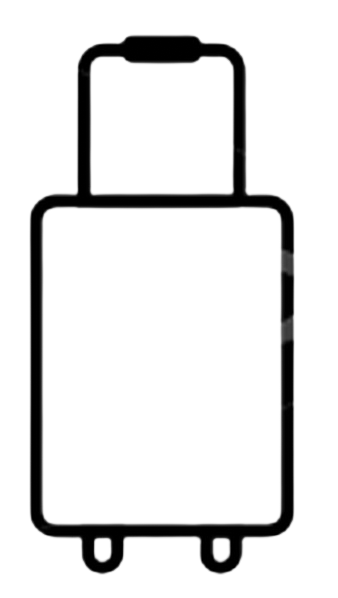
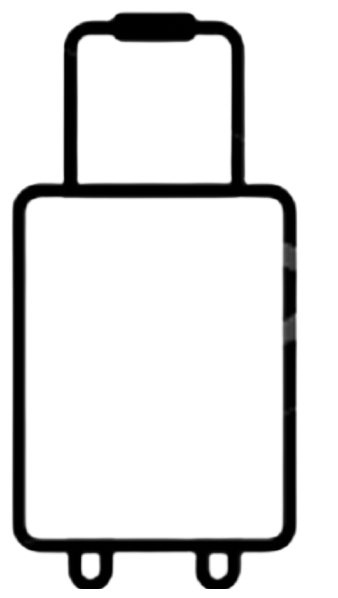
feat: 물건 방향 찾기

Changed region(s): [[0.0296, 0.0, 0.8876, 0.9933]]

diff --git a/hospital/src/utils/carrierRotation/carrierRotateGameConfig.ts b/hospital/src/utils/carrierRotation/carrierRotateGameConfig.ts
@@ -4,6 +4,24 @@ const enum ANGLE {
   ANGLE_270 = 3,
 }
 
+const carrier: RotateCarrierSpacePoint = {
+  x: 0,
+  y: 0,
+  w: 300,
+  h: 500,
+};
+
+const space: RotateCarrierSpacePoint[] = [
+  // 1 X 2
+  { x: -130, y: -120, w: 200, h: 130 },
+  { x: -130, y: 10, w: 200, h: 130 },
+  // 2 x 2
+  { x: -130, y: -120, w: 100, h: 130 },
+  { x: -130, y: 10, w: 100, h: 130 },
+  { x: -30, y: -120, w: 100, h: 130 },
+  { x: -30, y: 10, w: 100, h: 130 },
+];
+
 export interface RotateCarrierItemAssets {
   imageKey: string;
   point: RotateCarrierSpacePoint;
@@ -38,16 +56,11 @@ export const RotateCarrierGameLevels: RotateCarrierLevelConfig[] = [
     obstacle: 0,
     findDirection: false,
     answerDirection: 0,
-    space: [
-      { x: -120, y: -150, w: 190, h: 95 },
-      { x: -120, y: -55, w: 190, h: 95 },
-    ],
+    space: [space[0], space[1]],
     rotation: 1,
     rotationAngle: [ANGLE.ANGLE_90],
-    carrier: { imageKey: "carrier", point: { x: 0, y: 0, w: 300, h: 400 } },
-    questions: [
-      { imageKey: "item1_0", point: { x: -120, y: -150, w: 190, h: 95 } },
-    ],
+    carrier: { imageKey: "carrier", point: carrier },
+    questions: [{ imageKey: "item1_0", point: space[0] }],
     obstacles: [],
     examples: [],
   },
@@ -57,22 +70,48 @@ export const RotateCarrierGameLevels: RotateCarrierLevelConfig[] = [
     obstacle: 1,
     findDirection: false,
     answerDirection: 1,
-    space: [
-      { x: -120, y: -150, w: 190, h: 95 },
-      { x: -120, y: -55, w: 190, h: 95 },
-    ],
+    space: [space[0], space[1]],
     rotation: 1,
     rotationAngle: [ANGLE.ANGLE_90],
-    carrier: { imageKey: "carrier", point: { x: 0, y: 0, w: 300, h: 400 } },
+    carrier: { imageKey: "carrier", point: carrier },
+    questions: [{ imageKey: "item5_0", point: space[1] }],
+    obstacles: [{ imageKey: "item1_0", point: space[0] }],
+    examples: [],
+  },
+  {
+    level: 2,
+    findItems: 1,
+    obstacle: 0,
+    findDirection: true,
+    answerDirection: 0,
+    space: [space[2], space[3], space[4], space[5]],
+    rotation: 2,
+    rotationAngle: [ANGLE.ANGLE_90, ANGLE.ANGLE_90],
+    carrier: { imageKey: "carrier", point: carrier },
     questions: [
-      { imageKey: "item5_0", point: { x: -120, y: -55, w: 190, h: 95 } },
-    ],
-    obstacles: [
       {
         imageKey: "item1_0",
-        point: { x: -120, y: -150, w: 190, h: 95 },
+        point: { ...space[2], y: space[2].y + 10, h: 100 },
       },
     ],
-    examples: [],
+    obstacles: [],
+    examples: [
+      {
+        imageKey: "item1_0",
+        point: { ...space[2], y: space[2].y + 10, h: 100 },
+      },
+      {
+        imageKey: "item1_90",
+        point: { ...space[3], y: space[3].y + 10, h: 100 },
+      },
+      {
+        imageKey: "item1_180",
+        point: { ...space[4], y: space[4].y + 10, h: 100 },
+      },
+      {
+        imageKey: "item1_270",
+        point: { ...space[5], y: space[5].y + 10, h: 100 },
+      },
+    ],
   },
 ];

diff --git a/hospital/src/pages/rotate-carrier/[level].tsx b/hospital/src/pages/rotate-carrier/[level].tsx
@@ -5,35 +5,51 @@ import { RotateCarrierGameLevels } from "@/utils/carrierRotation/carrierRotateGa
 import {
   RotateCarrierConfigState,
   RotateCarrierGameState,
+  SubjectTextState,
 } from "@/atoms/rotateCarrier/config";
-import { useRecoilState, useResetRecoilState } from "recoil";
+import { useRecoilState, useRecoilValue, useResetRecoilState } from "recoil";
 import shuffleArray from "@/utils/arrayShuffle";
 import CustomButton from "@/utils/CustomButton";
+import FindItemDirection from "../../components/rotateCarrier/FindItemDirection";
 
 export default function GamePage() {
   const router = useRouter();
   const level = Number(router.query.level);
+  const subject = useRecoilValue(SubjectTextState);
   const [config, setConfig] = useRecoilState(RotateCarrierConfigState);
   const [gameState, setGameState] = useRecoilState(RotateCarrierGameState);
   const resetGameState = useResetRecoilState(RotateCarrierGameState);
   const [nextBtn, setNextBtn] = useState(false);
+  const [findDirection, setFindDirection] = useState(false);
 
   useEffect(() => {
     const levelConfig = RotateCarrierGameLevels[level];
     const shuffleAngle = shuffleArray(levelConfig.rotationAngle);
     setConfig({ ...levelConfig, rotationAngle: shuffleAngle });
-    console.log(levelConfig);
   }, [level]);
+
+  useEffect(() => {
+    if (gameState.directionScore === config.findItems) {
+      setNextBtn(true);
+    }
+  }, [gameState.directionScore]);
 
   // 게임 클리어
   useEffect(() => {
-    if (gameState.score === config.findItems && level < 9) setNextBtn(true);
+    if (gameState.score === config.findItems && level < 9) {
+      if (config.findDirection && !gameState.directionScore) {
+        setFindDirection(true);
+        return;
+      }
+      setNextBtn(true);
+    }
   }, [gameState.score, router, level]);
 
   const handleNextLevel = useCallback(() => {
     resetGameState(); // 상태 리셋
     if (level < 9) router.push(`/rotate-carrier/${level + 1}`); // 다음 레벨로 이동
     setNextBtn(false);
+    setFindDirection(false);
   }, [nextBtn, level]);
 
   function handleStart() {
@@ -42,7 +58,9 @@ export default function GamePage() {
 
   return (
     <div className="flex flex-col items-center justify-center min-h-screen bg-gray-100">
-      <Canvas key={level} />
+      <h3>{subject}</h3>
+      {!findDirection && <Canvas key={level} />}
+      {findDirection && config.findDirection && <FindItemDirection />}
       <div className="flex justify-center space-x-4 mt-4">
         <CustomButton
           text="게임 시작"

diff --git a/hospital/src/hooks/rotateCarrier/useAnimation.tsx b/hospital/src/hooks/rotateCarrier/useAnimation.tsx
@@ -1,6 +1,9 @@
 import { RefObject, useEffect } from "react";
-import { useRecoilState } from "recoil";
-import { RotateCarrierGameState } from "@/atoms/rotateCarrier/config";
+import { useRecoilState, useSetRecoilState } from "recoil";
+import {
+  RotateCarrierGameState,
+  SubjectTextState,
+} from "@/atoms/rotateCarrier/config";
 import { RotateCarrierLevelConfig } from "@/utils/carrierRotation/carrierRotateGameConfig";
 import {
   drawRect,
@@ -14,7 +17,6 @@ interface params {
   images: RefObject<{ [key: string]: HTMLImageElement }>;
   config: RotateCarrierLevelConfig;
   clickedRectIndex: number;
-  setSubject: React.Dispatch<React.SetStateAction<string>>;
 }
 
 export const useAnimation = ({
@@ -23,9 +25,9 @@ export const useAnimation = ({
   images,
   config,
   clickedRectIndex,
-  setSubject,
 }: params) => {
   const [gameState, setGameState] = useRecoilState(RotateCarrierGameState);
+  const setSubject = useSetRecoilState(SubjectTextState);
 
   const draw = (angle: number) => {
     context.clearRect(0, 0, context.canvas.width, context.canvas.height);
@@ -68,20 +70,31 @@ export const useAnimation = ({
       rotateCount++;
       rotateDirection = getRandomRotateDirection();
       const rotateAngle = config.rotationAngle[rotateCount];
+      if (!rotateAngle) return;
       rotateDirection === "right"
         ? (endAngle += rotateAngle)
         : (endAngle -= rotateAngle);
+
+      setGameState((prev) => {
+        return {
+          ...prev,
+          lastDirection:
+            rotateDirection === "right" && rotateAngle
+              ? prev.lastDirection + rotateAngle
+              : prev.lastDirection - rotateAngle,
+        };
+      });
     };
 
     initRotateInfo();
     const animateStep = () => {
       switch (rotateDirection) {
         case "right":
-          if (degree > endAngle) initRotateInfo();
+          if (degree >= endAngle) initRotateInfo();
           degree += 0.015;
           break;
         case "left":
-          if (degree < endAngle) initRotateInfo();
+          if (degree <= endAngle) initRotateInfo();
           degree -= 0.015;
           break;
       }

diff --git a/hospital/src/components/rotateCarrier/FindItemDirection.tsx b/hospital/src/components/rotateCarrier/FindItemDirection.tsx
@@ -1,0 +1,63 @@
+import {
+  RotateCarrierConfigState,
+  RotateCarrierGameState,
+  SubjectTextState,
+} from "@/atoms/rotateCarrier/config";
+import React, { useEffect, useState } from "react";
+import { useRecoilState, useSetRecoilState } from "recoil";
+import { DrawFindItem } from "./DrawFindItem";
+import { get } from "http";
+
+export default function FindItemDirection() {
+  const [config, setConfig] = useRecoilState(RotateCarrierConfigState);
+  const [gameState, setGameState] = useRecoilState(RotateCarrierGameState);
+  const setSubject = useSetRecoilState(SubjectTextState);
+  const [answerDirection, setAnswerDirection] = useState(0);
+  const path = "/assets/rotateCarrier";
+
+  useEffect(() => {
+    setSubject("물건 모양은 어떻게 되어 있을까요?");
+    const answerDirection = gameState.lastDirection % 4;
+    switch (answerDirection) {
+      case 0:
+      case -4:
+        setAnswerDirection(0);
+        break;
+      case 2:
+      case -2:
+        setAnswerDirection(2);
+        break;
+      case 1:
+      case -3:
+        setAnswerDirection(1);
+        break;
+      case 3:
+      case -1:
+        setAnswerDirection(3);
+        break;
+    }
+  }, []);
+
+  const handleAnswer = (index: number) => {
+    if (index === answerDirection) {
+      setGameState((prev) => {
+        return { ...gameState, directionScore: prev.directionScore + 1 };
+      });
+    }
+  };
+
+  return (
+    <div className="grid grid-cols-2 grid-rows-2 gap-10 p-20">
+      {config.examples.map((item, index) => {
+        return (
+          <DrawFindItem
+            image={`${path}/${item.imageKey}.png`}
+            index={index}
+            key={index}
+            handleAnswer={handleAnswer}
+          />
+        );
+      })}
+    </div>
+  );
+}

diff --git a/hospital/src/components/rotateCarrier/Canvas.tsx b/hospital/src/components/rotateCarrier/Canvas.tsx
@@ -7,7 +7,6 @@ import { useAnimation } from "@/hooks/rotateCarrier/useAnimation";
 
 export default function Canvas() {
   const canvasRef = useRef<HTMLCanvasElement>(null);
-  const [subject, setSubject] = useState<string>("");
   const images = useRef<{ [key: string]: HTMLImageElement }>({});
   const config = useRecoilValue(RotateCarrierConfigState);
   const { clickedRectIndex } = useMouseEvent(canvasRef, config);
@@ -18,7 +17,6 @@ export default function Canvas() {
     images,
     config,
     clickedRectIndex,
-    setSubject,
   });
 
   useEffect(() => {
@@ -30,7 +28,6 @@ export default function Canvas() {
 
   return (
     <div>
-      <h3>{subject}</h3>
       <canvas width={700} height={700} ref={canvasRef} />
     </div>
   );

diff --git a/hospital/src/components/rotateCarrier/DrawFindItem.tsx b/hospital/src/components/rotateCarrier/DrawFindItem.tsx
@@ -1,0 +1,20 @@
+import Image from "next/image";
+import React from "react";
+
+interface Props {
+  image: string;
+  index: number;
+  handleAnswer: (index: number) => void;
+}
+
+export const DrawFindItem = ({ image, index, handleAnswer }: Props) => {
+  return (
+    <div
+      className="flex flex-col items-center justify-center p-4 hover:bg-gray-200 active:bg-blue-200"
+      onClick={() => handleAnswer(index)}
+    >
+      <Image src={image} alt="findItems" width={200} height={200} />
+      <span className="w-12 bg-black text-white text-center">{index + 1}</span>
+    </div>
+  );
+};

diff --git a/hospital/src/atoms/rotateCarrier/config.ts b/hospital/src/atoms/rotateCarrier/config.ts
@@ -3,16 +3,25 @@ import { atom } from "recoil";
 
 interface IRotateCarrierGame {
   score: number;
+  directionScore: number;
   start: boolean;
   lastAngle: number;
+  lastDirection: number;
 }
+
+export const SubjectTextState = atom({
+  key: "SubjectTextState",
+  default: "",
+});
 
 export const RotateCarrierGameState = atom<IRotateCarrierGame>({
   key: "RotateCarrierGameState",
   default: {
     score: 0,
+    directionScore: 0,
     start: false,
     lastAngle: 0,
+    lastDirection: 0,
   },
 });
 
